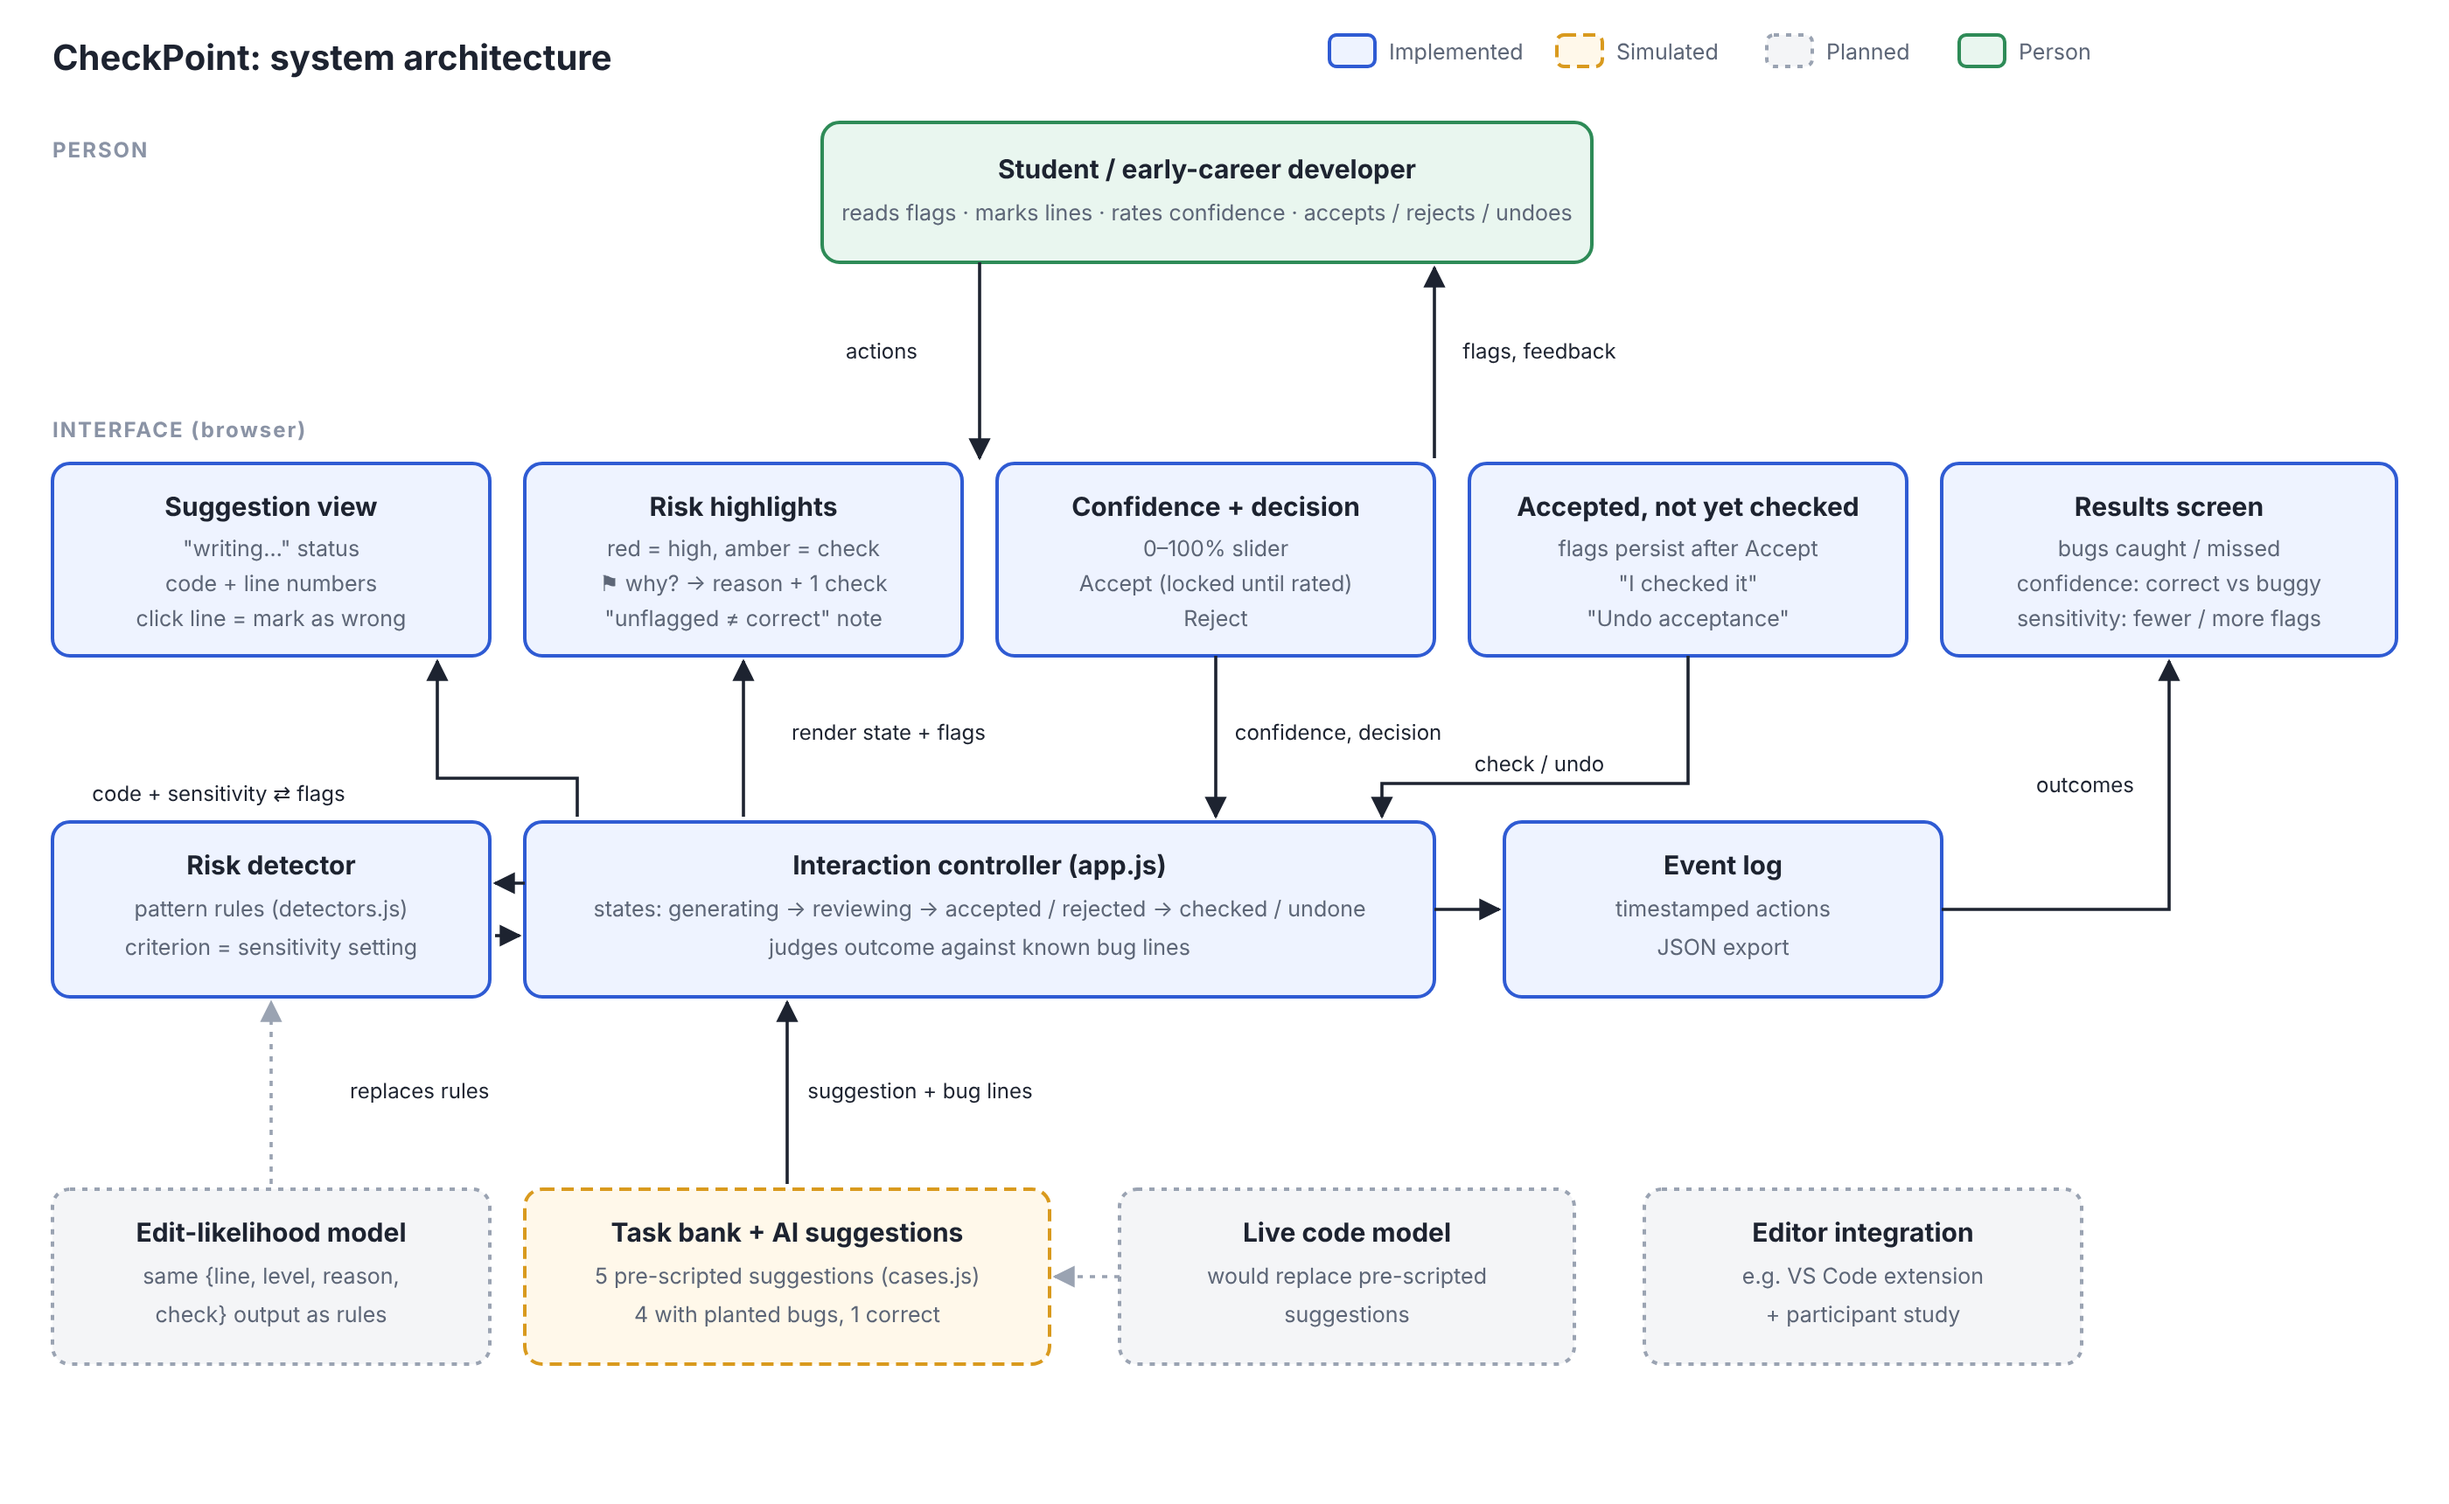
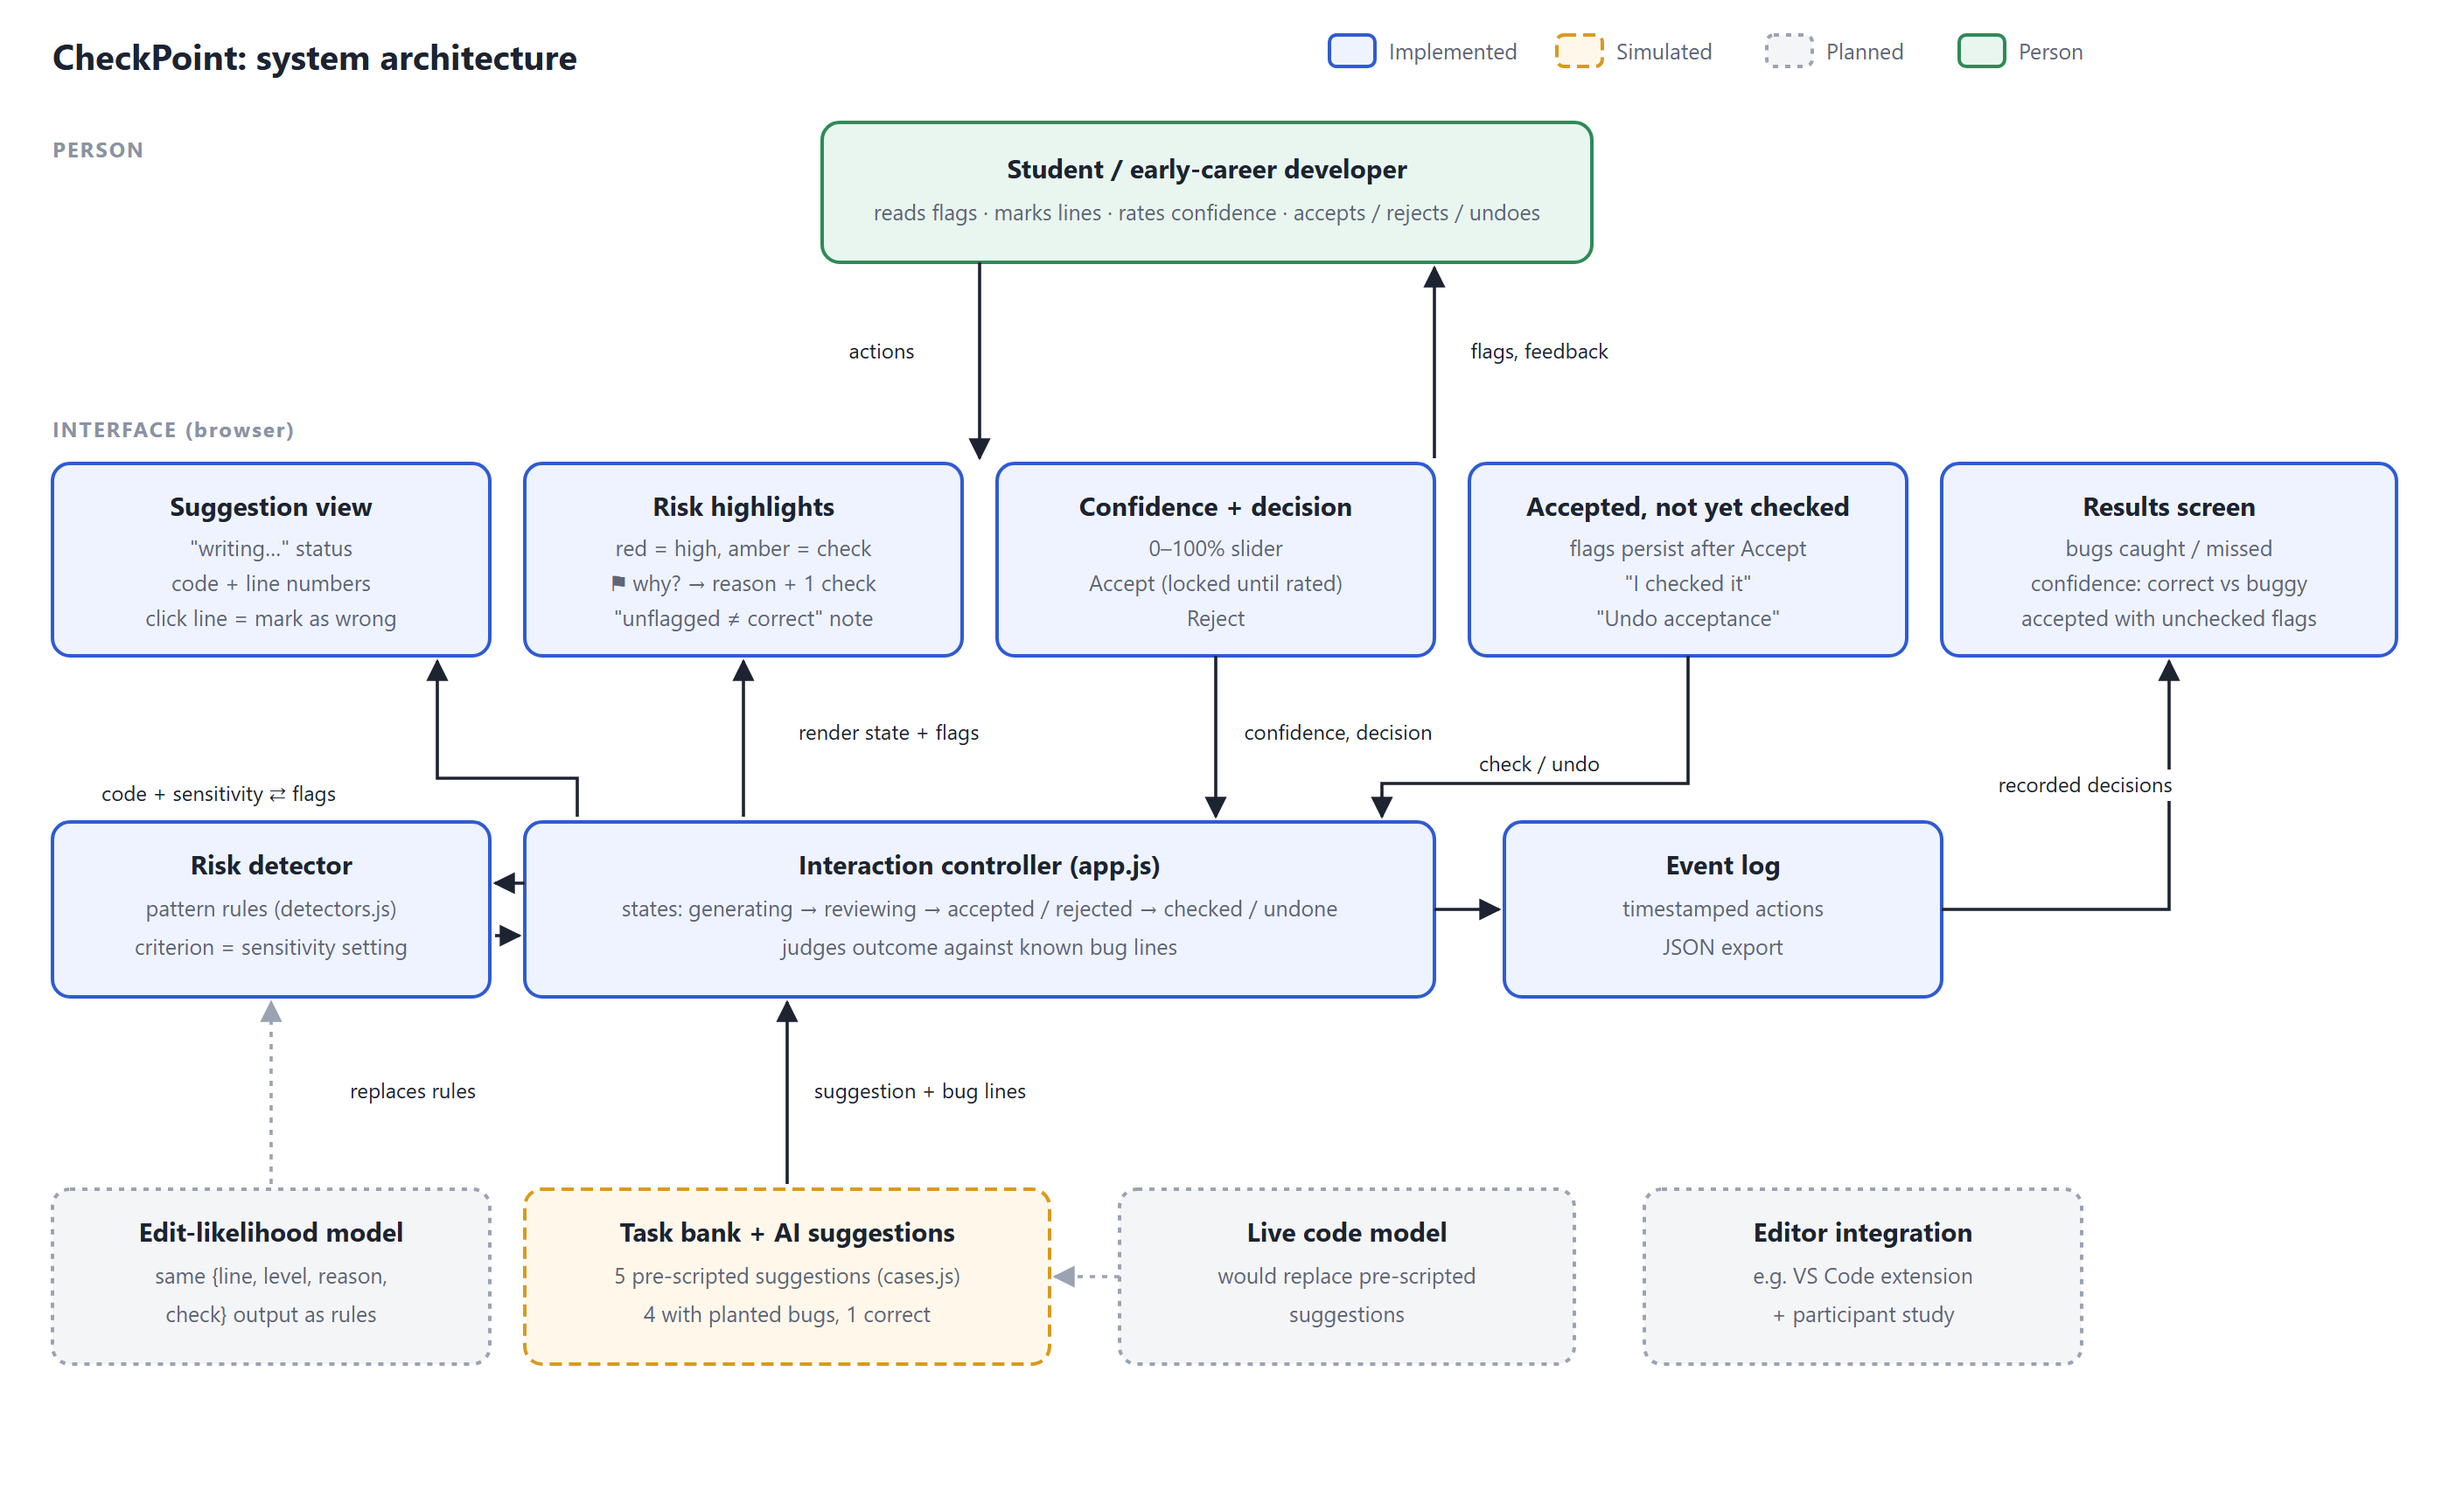
docs: storyboard screenshots, fix diagram labels, update readme

diff --git a/docs/diagram-source.html b/docs/diagram-source.html
@@ -71,7 +71,7 @@
   <text x="1240" y="295" text-anchor="middle" class="h">Results screen</text>
   <text x="1240" y="318" text-anchor="middle" class="s">bugs caught / missed</text>
   <text x="1240" y="338" text-anchor="middle" class="s">confidence: correct vs buggy</text>
-  <text x="1240" y="358" text-anchor="middle" class="s">sensitivity: fewer / more flags</text>
+  <text x="1240" y="358" text-anchor="middle" class="s">accepted with unchecked flags</text>
 
   <!-- logic -->
   <rect x="300" y="470" width="520" height="100" class="impl" rx="10"/>
@@ -125,7 +125,7 @@
   <text x="880" y="441" text-anchor="middle" class="lbl">check / undo</text>
   <path class="arrow" d="M820,520 L857,520"/>
   <path class="arrow" d="M1110,520 L1240,520 L1240,378"/>
-  <rect x="1150" y="440" width="84" height="18" class="lblbg"/><text x="1192" y="453" text-anchor="middle" class="lbl">outcomes</text>
+  <rect x="1128" y="440" width="128" height="18" class="lblbg"/><text x="1192" y="453" text-anchor="middle" class="lbl">recorded decisions</text>
 
   <!-- controller <-> detector -->
   <path class="arrow" d="M300,505 L283,505"/>

diff --git a/README.md b/README.md
@@ -1,6 +1,6 @@
 # CheckPoint
 
-**README prose word count: ~812** (code and commands not counted)
+**README prose word count: ~817** (code and commands not counted)
 
 CheckPoint is a prototype for reviewing AI code suggestions. Instead of letting developers accept generated code and forget about it, it flags lines that likely need a second look, keeps those flags visible after acceptance, and tracks whether the user actually spotted the bugs and how well their confidence lined up with reality.
 
@@ -75,10 +75,12 @@ All four stages were built locally first and pushed to GitHub together on 25 Nov
 
 All core design decisions—such as keeping risk flags visible after acceptance, adding the undo option, requiring a confidence rating before accepting, and choosing which bug patterns to include—came directly from my Assignment 1 literature review on overreliance in AI coding tools.
 
-I used AI assistance in a limited supporting role: helping debug edge cases in the JavaScript logic (such as fixing how confidence calibration was calculated on the results screen when a user marked a buggy line), tidying parts of the layout CSS, and drafting/rewording sections of this README. AI was also used to create the system diagram sketches and storyboards in `docs/`, and to help develop the project report. A command-line tool was also used to help initialize the Git repository and organize the staged commits. I manually tested every task in the browser to verify that each planted bug, line-marking interaction, and results calculation behaved as expected.
+I used AI assistance in a limited supporting role: helping debug edge cases in the JavaScript logic (such as fixing how confidence calibration was calculated on the results screen when a user marked a buggy line), tidying parts of the layout CSS, and drafting/rewording sections of this README. AI also helped me produce the system diagram and capture the storyboard screenshots in `docs/`, and helped develop the project report. A command-line tool was also used to help initialize the Git repository and organize the staged commits. I manually tested every task in the browser to verify that each planted bug, line-marking interaction, and results calculation behaved as expected.
 
 ---
 
 ## Additional Files
 
-* `docs/` — Contains the system diagram and storyboard images referenced in the report (no ZIP archives).
+* `docs/system-diagram.png` — Figure 1 in the report (source: `docs/diagram-source.html`).
+* `docs/storyboard-frames/` — screenshots of the prototype used in Storyboards 1–3.
+* No ZIP archives.
